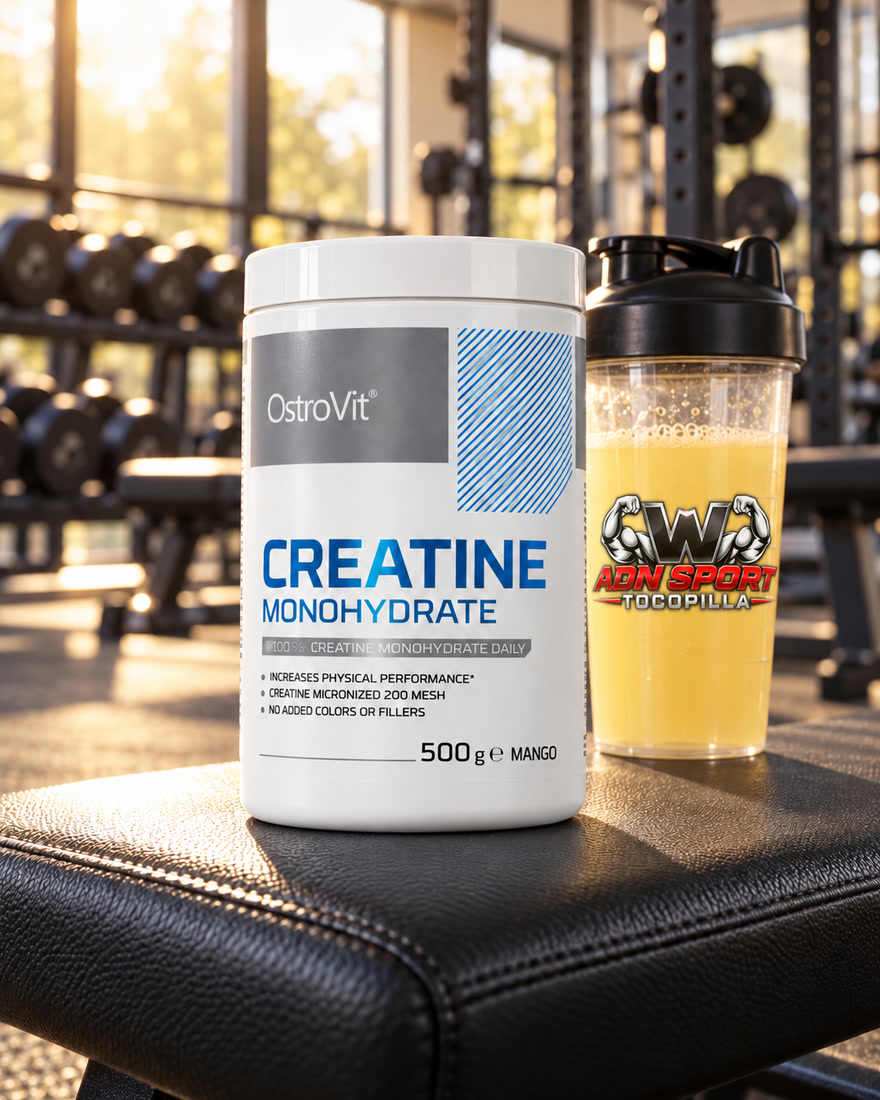
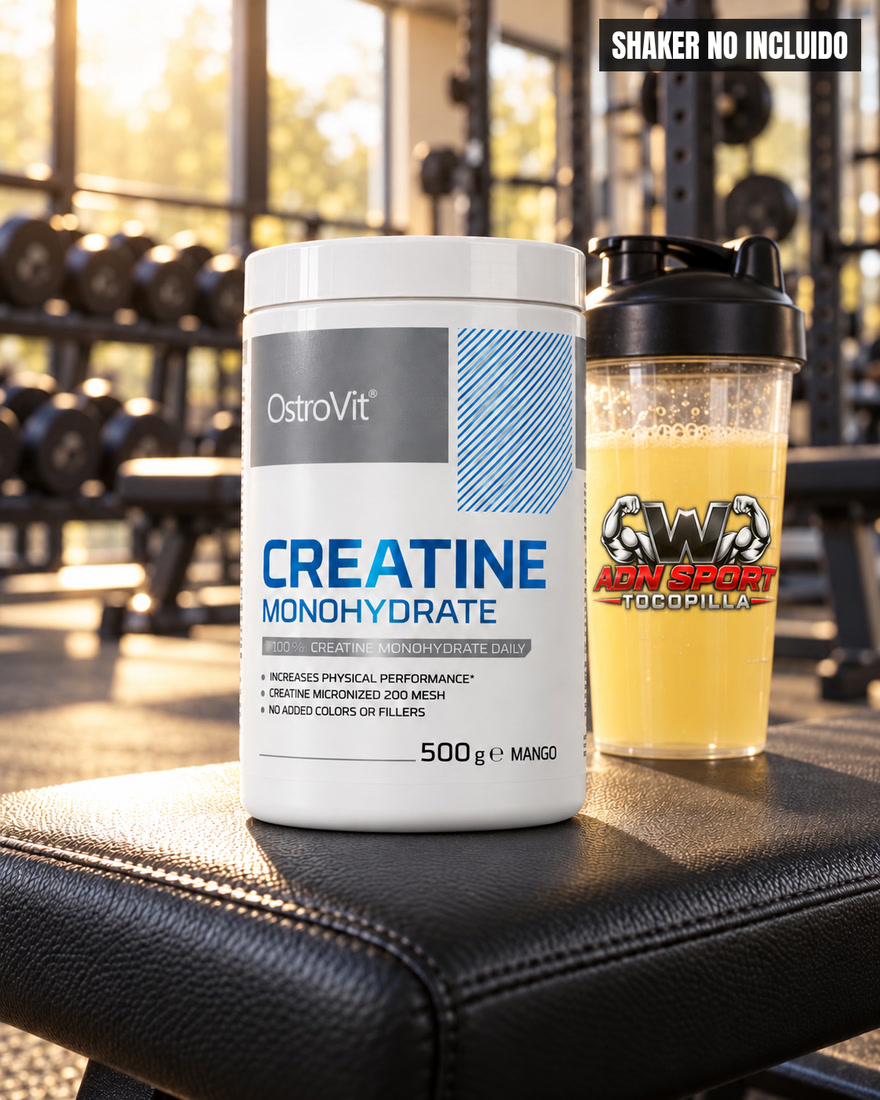
Tienda: «Shaker no incluido» en las fotos de suplementos
Claude-Session: https://claude.ai/code/session_013ZgZPSRHEDhMsqmx8Km842

Changed region(s): [[0.675, 0.0, 0.9818, 0.0927]]

diff --git a/tienda.html b/tienda.html
@@ -221,7 +221,7 @@ function hoyISO(){ return new Intl.DateTimeFormat("en-CA", { timeZone:"America/S
 function ahoraTxt(){ var f = new Intl.DateTimeFormat("sv-SE", { timeZone:"America/Santiago", year:"numeric", month:"2-digit", day:"2-digit", hour:"2-digit", minute:"2-digit" }).format(new Date()); return f.replace("T", " ").slice(0, 16); }
 function normTxt(s){ return String(s || "").toUpperCase().normalize("NFD").replace(/[̀-ͯ]/g, ""); }
 /* Al cambiar una foto en img/tienda/ (mismo nombre), subir FOTO_V para que los teléfonos no muestren la antigua. */
-var FOTO_V = "38";
+var FOTO_V = "39";
 function fotoUrl(f){ return f ? f + (f.indexOf("?") < 0 ? "?v=" + FOTO_V : "") : ""; }
 function iconoCat(c){ var x = CATS.filter(function(k){ return k[0] === c; })[0]; return x ? x[1] : "📦"; }
 function toast(t, ms){ var el = $("toast"); el.textContent = t; el.style.display = "block"; clearTimeout(toast.t); toast.t = setTimeout(function(){ el.style.display = "none"; }, ms || 2600); }
@@ -303,7 +303,7 @@ setInterval(function(){ if(pend.length) enviarPendientes(); }, 30000);
    el computador"): los datos se vuelven a pedir a la planilla cada 30 s mientras la página está a la vista (sin una ficha
    abierta), y cada minuto se revisa tienda-version.txt: si hay una versión nueva de la página, se recarga sola.
    Cada vez que se cambie tienda.html, subir TIENDA_VERSION y tienda-version.txt juntos (AAAAMMDDNN). */
-var TIENDA_VERSION = "2026102530";
+var TIENDA_VERSION = "2026102531";
 setInterval(function(){ if(clave && !document.hidden && $("velo").hidden && !$("app").hidden) enviarPendientes().then(function(){ cargar(true); }); }, 30000);
 function revisarVersion(){
  fetch("tienda-version.txt?t=" + Date.now(), { cache:"no-store" }).then(function(r){ return r.ok ? r.text() : ""; }).then(function(v){

diff --git a/CLAUDE.md b/CLAUDE.md
@@ -1529,6 +1529,8 @@ Versión 23). Celular y compu ven el mismo inventario.
   (tarro $21.400, 30 porciones → $713; venta $2.000; foto `img/tienda/pre-entreno-mr-hyde-signature.jpg`: tarro en el gimnasio con scoop lleno, shaker con el logo del gimnasio y franja roja/dorada «SE VENDE POR PORCIÓN» en Rubik Distressed, hecha con ffmpeg).
   Llegan el lunes 26-10-2026 (cargar ese día): Creatina Xtreme Boost en sachet (pack $19.990 con tabletas de pre entreno que
   son para la dueña → costo $1.000 c/u, venta $2.000; foto `img/tienda/creatina-xtreme-boost-sachet.jpg`: caja abierta y dos sobres en el gimnasio, shaker con el logo, sin franja porque los sobres ya muestran que se vende por unidad) y Creatina Ostrovit 500 g mango por tarro (2 por $22.220 → $11.110 c/u; venta $30.000; foto `img/tienda/creatina-ostrovit-500g.jpg` en el gimnasio, shaker con el logo).
+  **«SHAKER NO INCLUIDO» (25-10-2026, pedido de la dueña):** las fotos con shaker (Mr Hyde, Ostrovit, Xtreme Boost) llevan arriba a la derecha
+  una etiqueta negra con letra blanca Anton (`contenido/fuentes/Anton.ttf`, ffmpeg `drawtext`). Toda foto nueva con shaker la lleva.
   Categorías de ropa (24-10-2026, la dueña: "esta es ropa de hombre"): «Ropa mujer» 👚 y «Ropa hombre» 👕 (`catNueva`: lo
   guardado como «Ropa deportiva» se muestra como «Ropa mujer»; en los enlaces usar `cat=Ropa%20mujer` o `cat=Ropa%20hombre`).
   Ropa deportiva de mujer (24-10-2026): cada talla y color es un producto aparte con su código 200… (la ropa no trae
